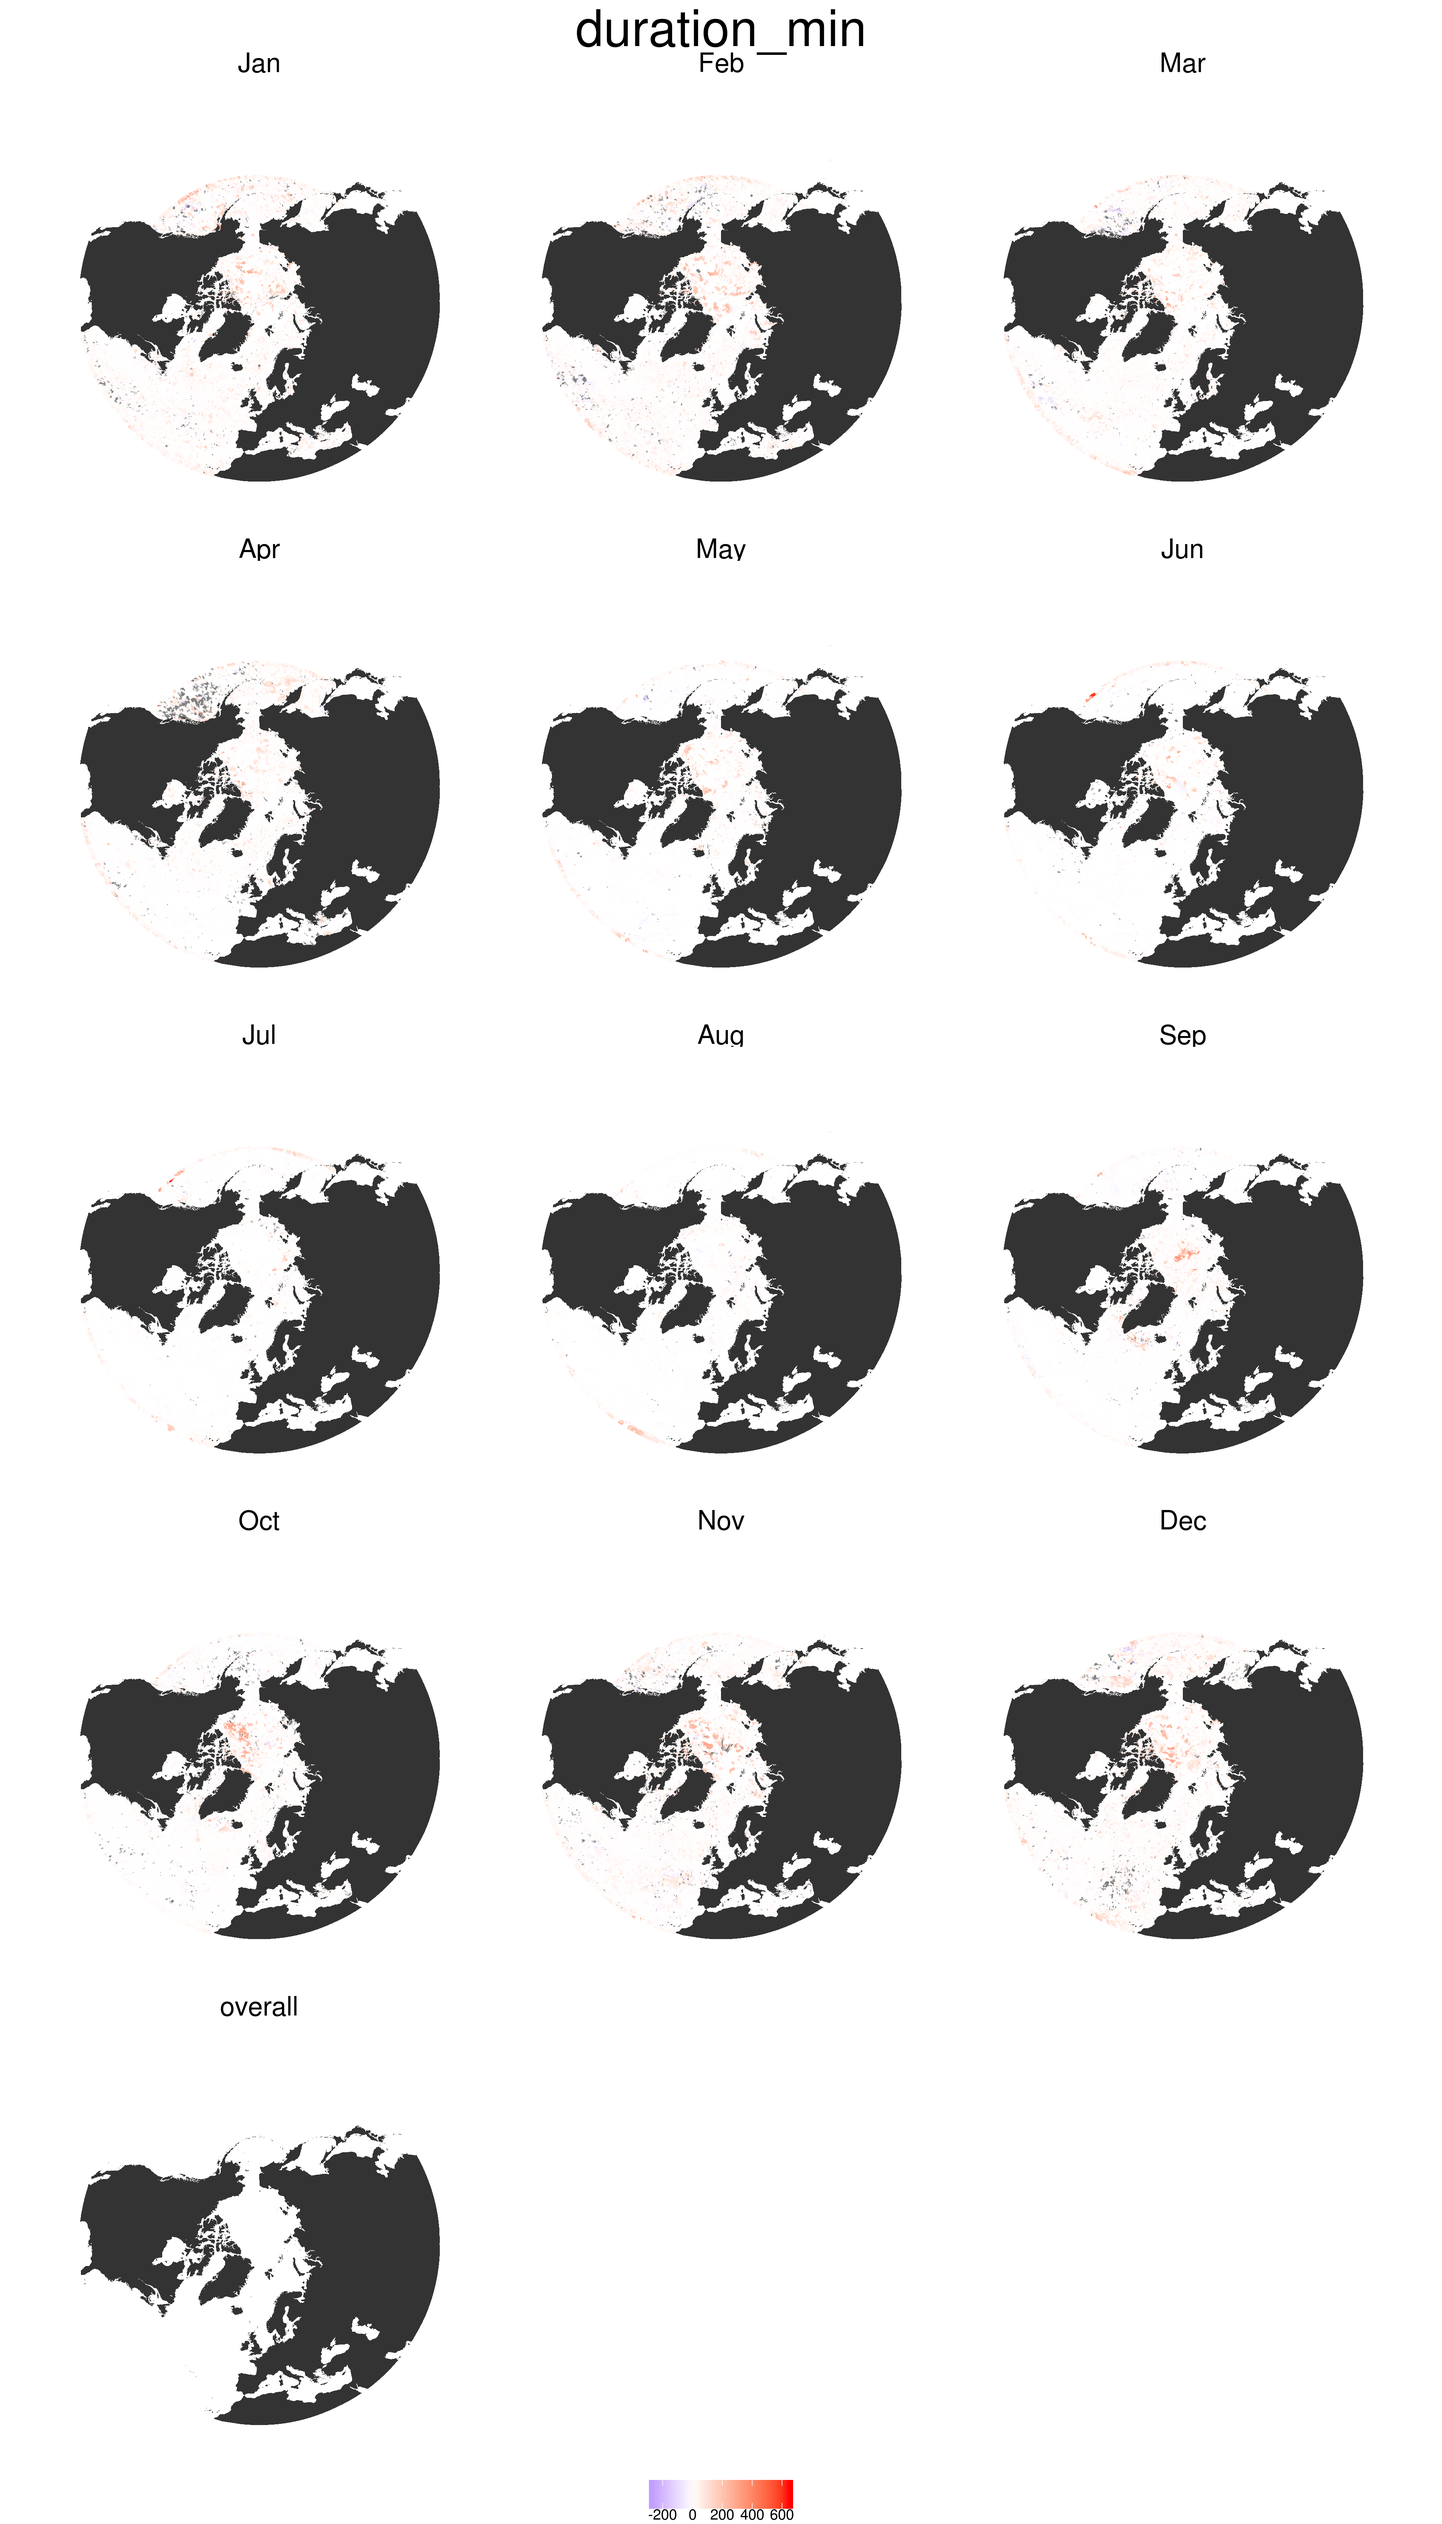
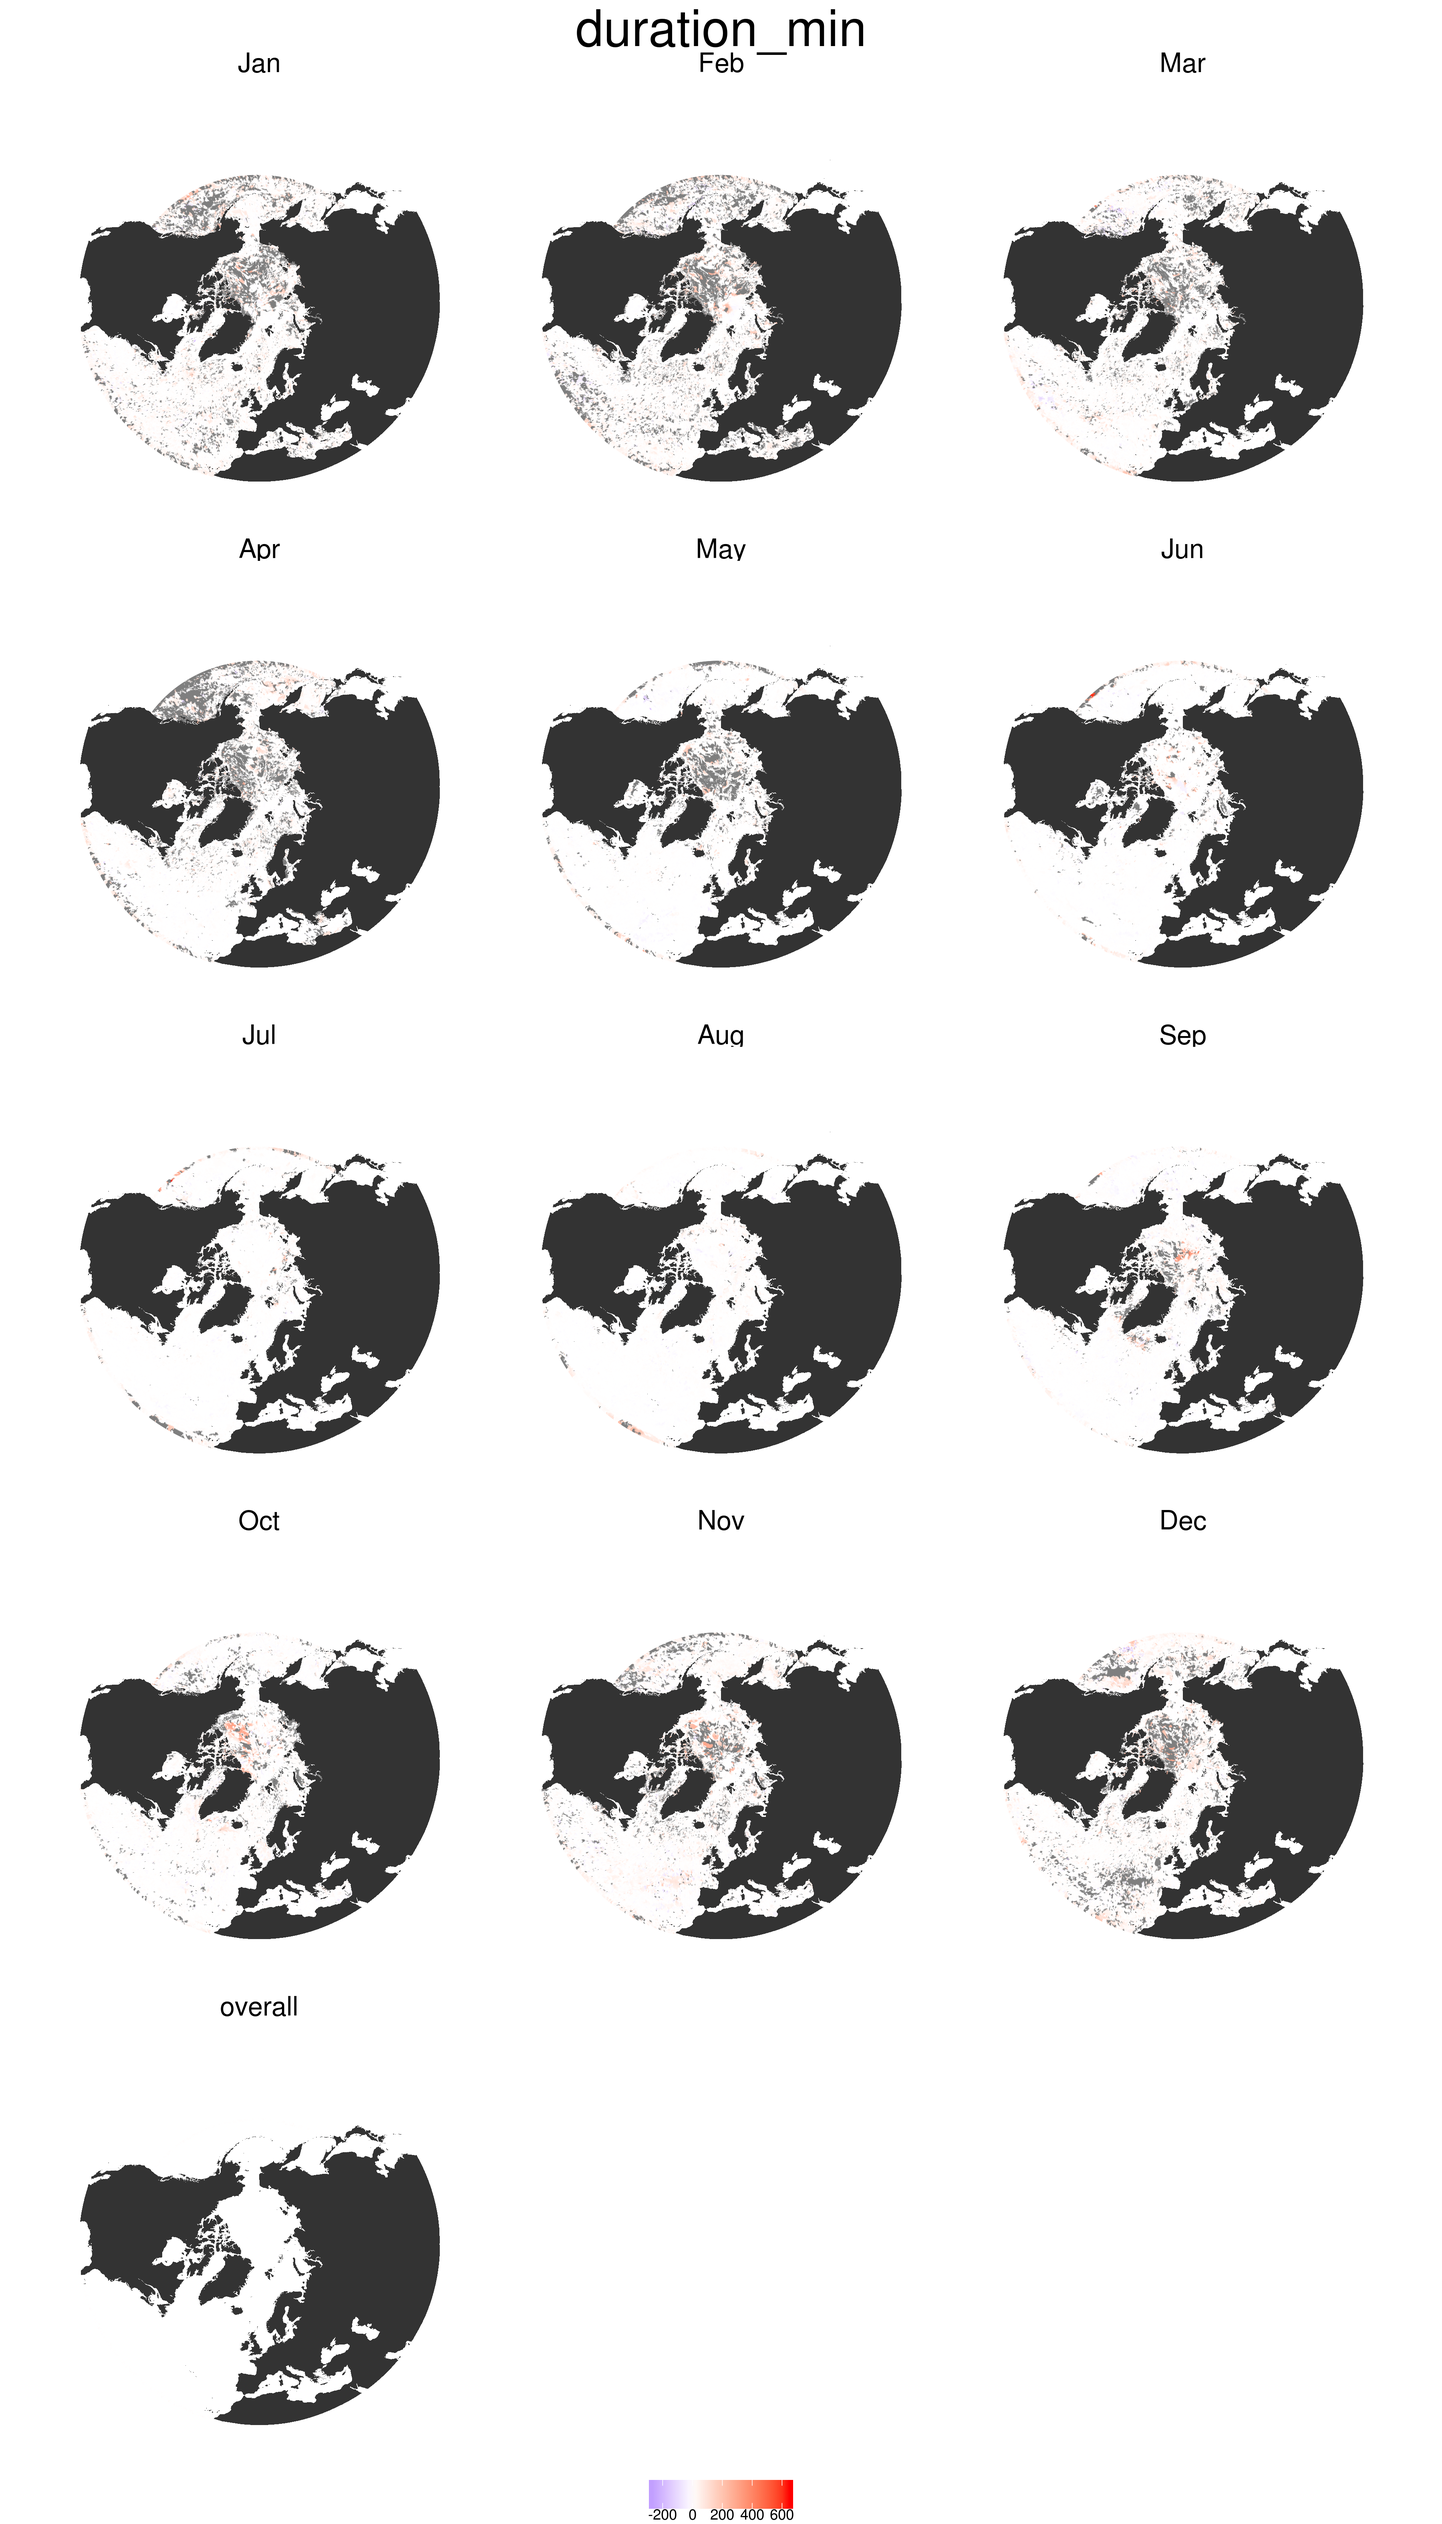
Re-calculated MHW comparison stats and re-created all comparison visuals

diff --git a/README.md b/README.md
@@ -3,6 +3,10 @@ The code in this repository is intended for use on tikoraluk.
 
 Many of the file pathways will not work when not run on Robert Schlegel's username when logged into the server.
 
+* November 07, 2018
+  * Re-calculated MHW comparison stats
+  * Re-created all comparison visuals
+
 * November 06, 2018
   * Calculated and visualised skewness differences
 
